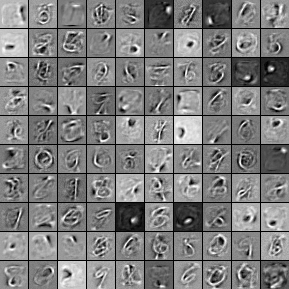
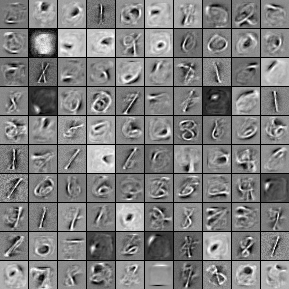
new version of RBM code: implements PCD instead of CD, used to generate good samples and filters.

diff --git a/code/rbm.py b/code/rbm.py
@@ -210,21 +210,6 @@ class RBM(object):
         self.params     = [self.W, self.hbias, self.vbias]
         self.batch_size = self.input.shape[0]
 
-
-    def gibbs_1(self, v0_sample):
-        ''' This function implements one step of Gibbs sampling '''
-        # compute the activation of the hidden units given a sample of the
-        # vissibles
-        h0_mean = T.nnet.sigmoid(T.dot(v0_sample, self.W) + self.hbias)
-        # get a sample of the hiddens given their activation
-        h0_sample = self.theano_rng.binomial(size = h0_mean.shape, n = 1, prob = h0_mean)
-        # compute the activation of the visible given the hidden sample
-        v1_mean = T.nnet.sigmoid(T.dot(h0_sample, self.W.T) + self.vbias)
-        # get a sample of the visible given their activation
-        v1_sample = self.theano_rng.binomial(size = v1_mean.shape,n = 1,prob = v1_mean)
-        return [v1_mean, v1_sample]
- 
- 
     def free_energy(self, v_sample):
         ''' Function to compute the free energy '''
         wx_b = T.dot(v_sample, self.W) + self.hbias
@@ -232,58 +217,71 @@ class RBM(object):
         hidden_term = T.sum(T.log(1+T.exp(wx_b)))
         return -hidden_term - vbias_term
 
+    def sample_h_given_v(self, v0_sample):
+        ''' This function infers state of hidden units given visible units '''
+        # compute the activation of the hidden units given a sample of the visibles
+        h1_mean = T.nnet.sigmoid(T.dot(v0_sample, self.W) + self.hbias)
+        # get a sample of the hiddens given their activation
+        h1_sample = self.theano_rng.binomial(size = h1_mean.shape, n = 1, prob = h1_mean)
+        return [h1_mean, h1_sample]
+
+    def sample_v_given_h(self, h0_sample):
+        ''' This function infers state of visible units given hidden units '''
+        # compute the activation of the visible given the hidden sample
+        v1_mean = T.nnet.sigmoid(T.dot(h0_sample, self.W.T) + self.vbias)
+        # get a sample of the visible given their activation
+        v1_sample = self.theano_rng.binomial(size = v1_mean.shape,n = 1,prob = v1_mean)
+        return [v1_mean, v1_sample]
+
+    def gibbs_hvh(self, h0_sample):
+        ''' This function implements one step of Gibbs sampling, 
+            starting from the hidden state'''
+        v1_mean, v1_sample = self.sample_v_given_h(h0_sample)
+        h1_mean, h1_sample = self.sample_h_given_v(v1_sample)
+        return [v1_mean, v1_sample, h1_mean, h1_sample]
+ 
+    def gibbs_vhv(self, v0_sample):
+        ''' This function implements one step of Gibbs sampling, 
+            starting from the visible state'''
+        h1_mean, h1_sample = self.sample_h_given_v(v0_sample)
+        v1_mean, v1_sample = self.sample_v_given_h(h1_sample)
+        return [h1_mean, h1_sample, v1_mean, v1_sample]
+ 
     def cd(self, lr = 0.1, persistent=None):
-        """ This functions implements one step of CD-1
+        """ 
+        This functions implements one step of CD-1 or PCD-1
 
-        :param lr: learning rate used to train the RBM
+        :param lr: learning rate used to train the RBM 
+        :param persistent: None for CD. For PCD, shared variable containing old state
+        of Gibbs chain. This must be a shared variable of size (batch size, number of
+        hidden units).
 
-        Return a tuple of values describing a CD step. The first value 
-        in the tuple is the reconstruction cross-entropy cost, a proxy 
-        to what CD tries to minimize, while the second is an update 
-        dictionary. The dictionary contains the update rules for weights
-        and biases but also an update of the shared variable used to store
-        the persistent chain, if one is used.
-        
-        Note that the reconstruction cross-entropy cost is just
-        a proxy of what CD actually tries to minimize, do not confuse the 
-        two.
-
-        If persistent is None, it defaults to self.input
-
-        CD aka CD1 - cd()
-        PCD        - cd(persistent=shared(numpy.asarray(initializer)))
+        Returns the updates dictionary. The dictionary contains the update rules for weights
+        and biases but also an update of the shared variable used to store the persistent
+        chain, if one is used.
         """
 
+        # compute positive phase
+        ph_mean, ph_sample = self.sample_h_given_v(self.input)
+
+        # decide how to initialize persistent chain:
+        # for CD, we use the newly generate hidden sample
+        # for PCD, we initialize from the old state of the chain
         if persistent is None:
-            chain_start = self.input
+            chain_start = ph_sample
         else:
             chain_start = persistent
 
+        # perform actual negative phase
+        [nv_mean, nv_sample, nh_mean, nh_sample] = self.gibbs_hvh(chain_start)
 
-        # define the graph for positive phase
-        ph_act    = T.dot(chain_start, self.W) + self.hbias
-        ph_mean   = T.nnet.sigmoid(ph_act)
-        ph_sample = self.theano_rng.binomial(size = ph_mean.shape, n = 1,
-                                                         prob = ph_mean)
-
-        # define the graph for the negative phase
-        nv_act    = T.dot(ph_sample, self.W.T) + self.vbias
-        nv_mean   = T.nnet.sigmoid(nv_act)
-        nv_sample = self.theano_rng.binomial(size = nv_mean.shape, n = 1,
-                                                         prob = nv_mean)
-        nh_act    = T.dot(nv_sample, self.W) + self.hbias
-        nh_mean   = T.nnet.sigmoid(nh_act)
-        nh_sample = self.theano_rng.binomial(size = nh_mean.shape, n = 1,
-                                                         prob = nh_mean)
-
+        # determine gradients on RBM parameters
         g_vbias = T.sum( self.input - nv_mean, axis = 0)/self.batch_size
         g_hbias = T.sum( ph_mean    - nh_mean, axis = 0)/self.batch_size
         g_W = T.dot(ph_mean.T, self.input   )/ self.batch_size - \
               T.dot(nh_mean.T, nv_mean      )/ self.batch_size
 
         gparams = [g_W.T, g_hbias, g_vbias]
-        cross_entropy = T.mean(T.sum( self.input*T.log(nv_mean) 
-                       + (1 - self.input)*T.log(1-nv_mean), axis = 1))
 
         # constructs the update dictionary
         updates = {}
@@ -292,10 +290,10 @@ class RBM(object):
 
         if persistent:
             # Note that this works only if persistent is a shared variable
-            updates[persistent] = nv_sample
+            updates[persistent] = T.cast(nh_sample, dtype=theano.config.floatX)
 
 
-        return (cross_entropy, updates)
+        return updates
 
 
 def test_rbm( learning_rate=0.1, training_epochs = 15, \
@@ -337,32 +335,45 @@ def test_rbm( learning_rate=0.1, training_epochs = 15, \
     index = T.lscalar()    # index to a [mini]batch 
     x     = T.matrix('x')  # the data is presented as rasterized images
 
-
     rng        = numpy.random.RandomState(123)
     theano_rng = RandomStreams( rng.randint(2**30))
+
+    # initialize storage fot the persistent chain (state = hidden layer of chain)
+    persistent_chain = theano.shared(numpy.zeros((batch_size, 500)))
 
     # construct the RBM class
     rbm = RBM( input = x, n_visible=28*28, \
                n_hidden = 500,numpy_rng = rng, theano_rng = theano_rng)
 
     # get the cost and the gradient corresponding to one step of CD
-    (cross_entropy, updates) = rbm.cd()
+    updates = rbm.cd(lr=learning_rate, persistent=persistent_chain)
 
-    train_rbm = theano.function([index], cross_entropy, 
+
+    #################################
+    #     Training the RBM          #
+    #################################
+
+    # it is ok for a theano function to have no output
+    # the purpose of train_rbm is solely to update the RBM parameters
+    train_rbm = theano.function([index], [],
            updates = updates, 
            givens = { x: train_set_x[index*batch_size:(index+1)*batch_size]})
 
     plotting_time = 0.
     start_time = time.clock()  
+
     # go through training epochs 
     for epoch in xrange(training_epochs):
+
         # go through the training set
         c = []
         for batch_index in xrange(n_train_batches):
-           c += [ train_rbm(batch_index) ]
-        print 'Training epoch %d, average cross-entropy reconstruction cost '%epoch, numpy.mean(c)
+           train_rbm(batch_index)
+
+        print 'Training epoch %d '%epoch
+
+        # Plot filters after each training epoch
         plotting_start = time.clock()
-        #           Plot filters after each training epoch
         # Construct image from the weight matrix 
         image = PIL.Image.fromarray(tile_raster_images( X = rbm.W.value.T,
                  img_shape = (28,28),tile_shape = (10,10), 
@@ -370,16 +381,17 @@ def test_rbm( learning_rate=0.1, training_epochs = 15, \
         image.save('filters_at_epoch_%i.png'%epoch) 
         plotting_stop = time.clock()
         plotting_time += (plotting_stop - plotting_start)
+
     end_time = time.clock()
 
     pretraining_time = (end_time - start_time) - plotting_time
 
     print ('Training took %f minutes' %(pretraining_time/60.))
 
-   
-    # Sampling the RBM
-
-    # Initialize the persistent chain with some sample from the test 
+  
+    #################################
+    #     Sampling from the RBM     #
+    #################################
 
     # find out the number of test samples  
     number_of_test_samples = test_set_x.value.shape[0]
@@ -387,18 +399,23 @@ def test_rbm( learning_rate=0.1, training_epochs = 15, \
     # pick two initial starting points randomly 
     sample = rng.randint(number_of_test_samples-20)
 
-    # initialize 20 persistent chains in parallel over which we will loop
-    persistent_chain = theano.shared( test_set_x.value[sample:sample+20])
+    # Initialize the persistent chain with some sample from the test 
+    persistent_vis_chain = theano.shared(test_set_x.value[sample:sample+20])
+
+    # define one step of Gibbs sampling (mf = mean-field)
+    [hid_mf, hid_sample, vis_mf, vis_sample] =  rbm.gibbs_vhv(persistent_vis_chain)
 
     # the sample at the end of the channel is returned by ``gibbs_1`` as 
     # its second output; note that this is computed as a binomial draw, 
     # therefore it is formed of ints (0 and 1) and therefore needs to 
-    # be converted to the same dtype as ``persistent_chain``
-    chain_step_sample = T.cast(rbm.gibbs_1(persistent_chain)[1], dtype =
-                                                    theano.config.floatX)
+    # be converted to the same dtype as ``persistent_vis_chain``
+    vis_sample = T.cast(vis_sample, dtype=theano.config.floatX)
+
     # construct the function that implements our persistent chain 
-    sample_fn = theano.function([], chain_step_sample, 
-                      updates = { persistent_chain:chain_step_sample })
+    # we generate the "mean field" activations for plotting and the actual samples for
+    # reinitializing the state of our persistent chain
+    sample_fn = theano.function([], [vis_mf, vis_sample],
+                      updates = { persistent_vis_chain:vis_sample})
 
     # sample the RBM, plotting every `plot_every`-th sample; do this 
     # until you plot at least `n_samples`
@@ -408,10 +425,11 @@ def test_rbm( learning_rate=0.1, training_epochs = 15, \
     for idx in xrange(n_samples):
         # do `plot_every` intermediate samplings of which we do not care
         for jdx in  xrange(plot_every):
-            sample_fn()
+            vis_mf, vis_sample = sample_fn()
+
         # construct image
         image = PIL.Image.fromarray(tile_raster_images( 
-                                         X          = persistent_chain.value,
+                                         X          = vis_mf,
                                          img_shape  = (28,28),
                                          tile_shape = (10,10),
                                          tile_spacing = (1,1) ) )
@@ -419,4 +437,4 @@ def test_rbm( learning_rate=0.1, training_epochs = 15, \
         image.save('sample_%i_step_%i.png'%(idx,idx*jdx))
 
 if __name__ == '__main__':
-   test_rbm() 
+    test_rbm()
